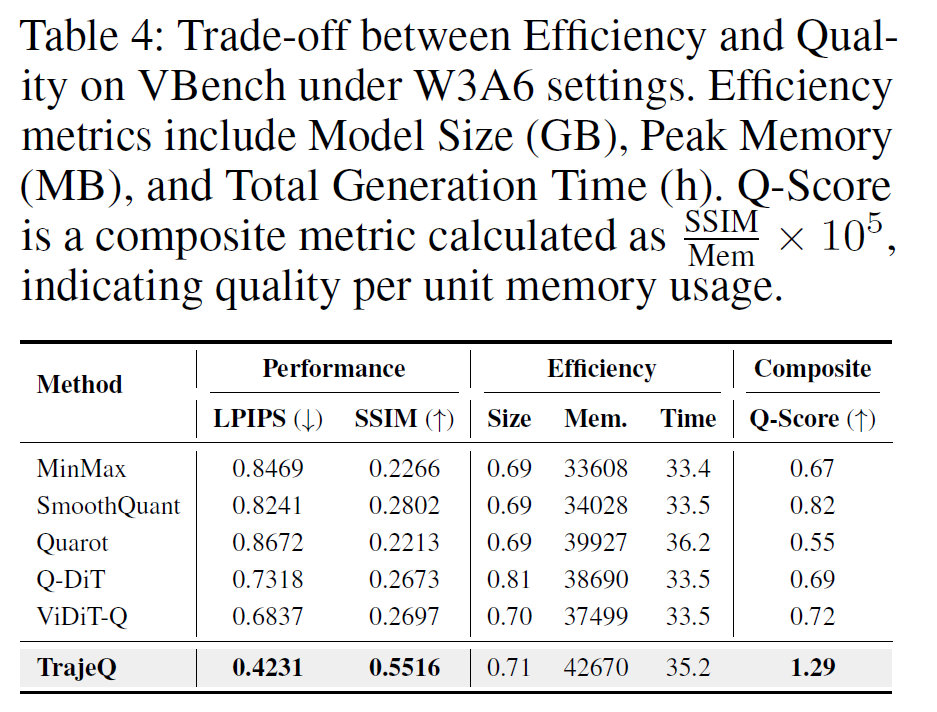
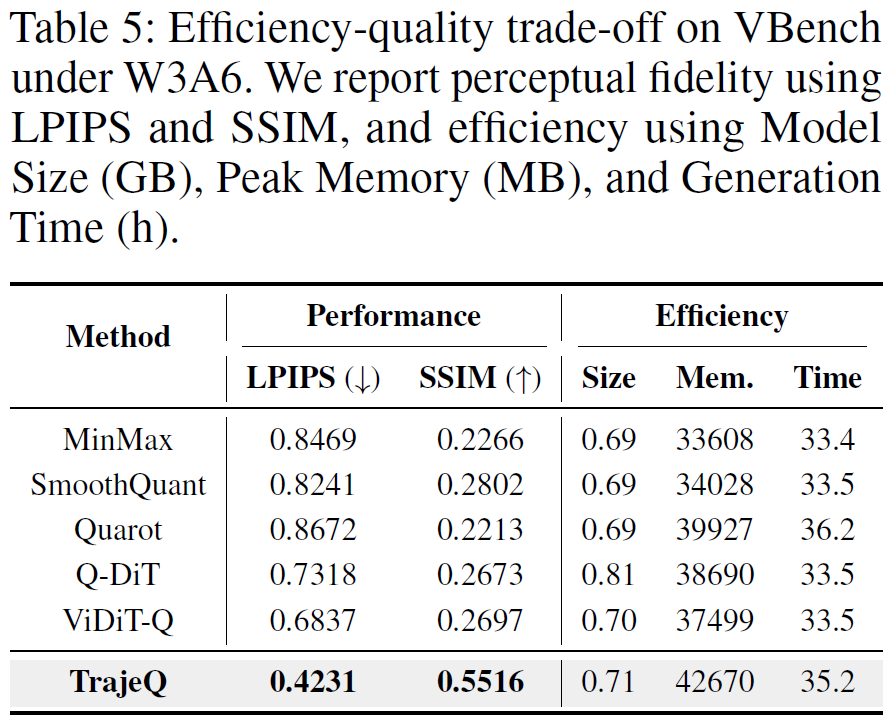
Update abstract and project page text

Changed region(s): [[0.0, 0.0, 0.9955, 0.9888]]

diff --git a/index.html b/index.html
@@ -139,7 +139,7 @@
         <h2 class="title is-3">TL;DR</h2>
         <div class="content has-text-justified">
           <p style="color: #555; font-size: 1.05rem;">
-            We introduce <em><strong>TrajeQ</strong></em>, the first quantization framework for FM video. By integrating <em>Direction-Aware Quantization (DAQ)</em> and <em>Sensitive-Layer Preservation (SLP)</em>, it preserves geometric stability, enabling robust generation in low-bit settings.
+            We introduce <em><strong>TrajeQ</strong></em>, the first quantization framework for FM video. By integrating <em>Direction-Aware Quantization (DAQ)</em> and <em>Directional Bottleneck Preservation (DBP)</em>, it preserves geometric stability, enabling robust generation in low-bit settings.
           </p>
         </div>
       </div>
@@ -152,7 +152,7 @@
         <h2 class="title is-3">Abstract</h2>
         <div class="content has-text-justified">
           <p>
-           While flow matching (FM) dominates the field of high-quality video generation, its significant computational overhead presents a major obstacle to practical implementation. Although post-training quantization (PTQ) remains an established paradigm for efficient generation, we demonstrate that directly applying standard diffusion-centric methods causes severe performance degradation in FM. We identify a fundamental theoretical misalignment in how these paradigms respond to directional distortion. In contrast to stochastic (SDE) sampling, deterministic ODE trajectories cannot naturally recover from quantization error. This vulnerability induces critical angular distortion, driving the generation trajectory significantly off-manifold. To address this issue, we introduce <em><strong>TrajeQ</strong></em> to preserve the geometric integrity of the velocity field and ensure trajectory stability. Our approach introduces <em>Direction-Aware Quantization (DAQ)</em> to detect angular shifts across timesteps and mitigate geometric distortion via adaptive precision. We also integrate <em>Sensitive-Layer Preservation (SLP)</em> to protect structural bottlenecks and maintain the stability of the entire flow field. Experiments demonstrate that <em><strong>TrajeQ</strong></em> achieves SOTA VBench results and enables high-fidelity video generation even under extreme W4A4 and W3A6 quantization regimes. The code and video results are provided at <a href="https://anonymus-orange.github.io/" target="_blank">https://anonymus-orange.github.io/</a>.
+           While flow matching (FM) has emerged as a prominent paradigm for high-quality video generation, its significant computational overhead presents a major obstacle to practical implementation. Although post-training quantization (PTQ) is an established approach for efficient generation, existing PTQ methods primarily minimize reconstruction error in a magnitude-centric manner. This objective is misaligned with deterministic FM trajectories, where low-bit quantization introduces velocity-field orientation errors that can compound across integration steps and drive the generation trajectory off-manifold. To address this issue, we introduce <em><strong>TrajeQ</strong></em> to preserve the geometric integrity of the velocity field and reduce trajectory drift under low-bit quantization. Our approach introduces <em>Curvature-Adaptive Quantization (CAQ)</em> to detect angular shifts across timesteps and mitigate geometric distortion via adaptive precision. We also integrate <em>Directional Bottleneck Preservation (DBP)</em>, a sensitivity-guided precision assignment scheme that retains only the most vulnerable layers in full precision. Experiments demonstrate that <em><strong>TrajeQ</strong></em> achieves state-of-the-art VBench performance and maintains stable video generation under extreme W4A4 and W3A6 quantization regimes where existing methods collapse. The code and video results are provided at <a href="https://anonymus-orange.github.io/" target="_blank">https://anonymus-orange.github.io</a>.
           </p>
         </div>
       </div>
@@ -294,7 +294,7 @@
         <h2 class="title is-3" style="margin: 0.5rem 0;">Method</h2>
         <div class="content has-text-justified" style="padding: 0 0.5rem; margin: 0;">
           <p style="margin: 0;">
-            TrajeQ is the first quantization framework specifically engineered to preserve the geometric trajectory of Flow Matching models. In contrast to conventional approaches that minimize magnitude error and often lead to significant trajectory drift, TrajeQ prioritizes the integrity of vector field directionality. Our framework integrates two complementary mechanisms: Direction-Aware Quantization (DAQ), which dynamically adapts precision by detecting trajectory curvature in real-time, and Sensitive-Layer Preservation (SLP), which identifies and safeguards structural bottlenecks. This synergistic approach enables TrajeQ to achieve high-fidelity video generation without structural collapse.
+            TrajeQ is the first quantization framework specifically engineered to preserve the geometric trajectory of Flow Matching models. In contrast to conventional approaches that minimize magnitude error and often lead to significant trajectory drift, TrajeQ prioritizes the integrity of vector field directionality. Our framework integrates two complementary mechanisms: Direction-Aware Quantization (DAQ), which dynamically adapts precision by detecting trajectory curvature in real-time, and Directional Bottleneck Preservation (DBP), which identifies and safeguards structural bottlenecks. This synergistic approach enables TrajeQ to achieve high-fidelity video generation without structural collapse.
           </p>
           <div class="column is-full" style="margin-top: 2rem;">
             <img src="./static/images/Figure1.jpg" alt="Figure 1: TrajeQ Overview" style="width: 100%; max-width: 1000px; margin: 0 auto; display: block;">
@@ -308,7 +308,7 @@
 
 <section class="section" style="padding: 2rem 0;">
   <div class="container is-max-widescreen" style="padding: 0 1rem; margin: 0;">
-    <!-- DAQ and SLP Side by Side -->
+    <!-- DAQ and DBP Side by Side -->
     <div class="columns" style="margin: 0;">
       <!-- DAQ -->
       <div class="column is-half" style="padding: 0 1rem 0 0;">
@@ -339,9 +339,9 @@
         </div>
       </div>
       
-      <!-- SLP -->
+      <!-- DBP -->
       <div class="column is-half" style="padding: 0 0 0 1rem;">
-        <h3 class="title is-4" style="margin-bottom: 1rem;">Sensitive-Layer Preservation (SLP)</h3>
+        <h3 class="title is-4" style="margin-bottom: 1rem;">Directional Bottleneck Preservation (DBP)</h3>
         <div class="content" style="padding: 0; margin: 0;">
           <h5 style="margin-top: 0; margin-bottom: 0.5rem;"><strong>Motivation</strong></h5>
           <p style="margin: 0 0 1rem 0; font-size: 0.95rem; line-height: 1.6;">
@@ -350,14 +350,14 @@
           
           <h5 style="margin-top: 1rem; margin-bottom: 0.5rem;"><strong>Key Mechanism</strong></h5>
           <!-- <p style="margin: 0 0 1rem 0; font-size: 0.95rem; line-height: 1.6;">
-            We introduce a novel metric called "Directional Sensitivity (DS)" to pinpoint these vulnerable layers. Based on this analysis, SLP selectively preserves the most critical components—comprising less than 1% of total parameters—in FP16 precision while aggressively quantizing the rest.
+            We introduce a novel metric called "Directional Sensitivity (DS)" to pinpoint these vulnerable layers. Based on this analysis, DBP selectively preserves the most critical components—comprising less than 1% of total parameters—in FP16 precision while aggressively quantizing the rest.
           </p> -->
           <ul style="margin: 0; padding-left: 20px;">
             <li style="margin-bottom: 5px;">
               <strong>Layer Sensitivity Analysis:</strong> We introduce a novel metric called "Directional Sensitivity (DS)" to pinpoint vulnerable layers prone to angular distortion.
             </li>
             <li>
-              <strong>Strategic Preservation:</strong> Guided by upon metric, SLP selectively retains the identified structural bottlenecks in FP16 precision. This targeted protection neutralizes error amplification in critical components, allowing the majority of the model to be efficiently quantized without structural collapse.
+              <strong>Strategic Preservation:</strong> Guided by upon metric, DBP selectively retains the identified structural bottlenecks in FP16 precision. This targeted protection neutralizes error amplification in critical components, allowing the majority of the model to be efficiently quantized without structural collapse.
             </li>
         </ul>
           
@@ -382,7 +382,7 @@
       </div>
       <div class="column is-half" style="padding: 0 1rem 1rem 1rem;">
         <figure class="image" style="height: 300px; display: flex; align-items: center; justify-content: center;">
-          <img src="./static/images/SLP.png" alt="SLP Visualization" style="border-radius: 4px; max-height: 100%; max-width: 100%; object-fit: contain;">
+          <img src="./static/images/SLP.png" alt="DBP Visualization" style="border-radius: 4px; max-height: 100%; max-width: 100%; object-fit: contain;">
         </figure>
       </div>
     </div>
@@ -422,7 +422,7 @@
         <img src="./static/images/table3.png" alt="Table 3: Method Ablation Study" style="border-radius: 4px; max-width: 630px; margin: 0 auto; display: block;">
       </figure>
       <p style="margin-top: 1rem; font-size: 0.95rem; color: #555;">
-        Efficiency-Quality trade-off analysis on VBench. TrajeQ significantly outperforms baselines in both perceptual (LPIPS) and structural (SSIM) metrics at W3A6. With the highest Q-Score ( <i>SSIM</i> / <i>Memory</i> ) of 1.29, <strong>our method converts memory resources into substantial fidelity gains, overcoming the limitations of standard quantization methods.</strong>
+        Efficiency-quality trade-off analysis on VBench. Under the challenging W3A6 regime, TrajeQ consistently surpasses existing baselines across both perceptual (LPIPS) and structural (SSIM) metrics, <strong>establishing a more favorable balance between aggressive compression and generation fidelity.</strong>
       </p>
     </div>
   </div>
@@ -688,16 +688,8 @@
         <h2 class="title is-3">Future Work</h2>
         <div class="content has-text-justified">
           <p>
-            We aim to extend TrajeQ to 3D Flow Matching, bridging the gap between high-fidelity spatial generation and efficient deployment.
+            While TrajeQ analyzes the geometric trajectory of velocity vectors, future work will investigate how quantization alters internal feature representations, especially whether it disrupts the geometry of superposed features.
           </p>
-          <ul>
-            <li>
-              <strong>3D Geometric Quantization:</strong> Adapting DAQ to preserve structural and topological integrity within high-dimensional 3D manifolds.
-            </li>
-            <li>
-              <strong>Extreme On-Device Efficiency:</strong> Unlocking real-time 3D generation on edge devices by leveraging robust W4A4 compression.
-            </li>
-          </ul>
         </div>
       </div>
     </div>
